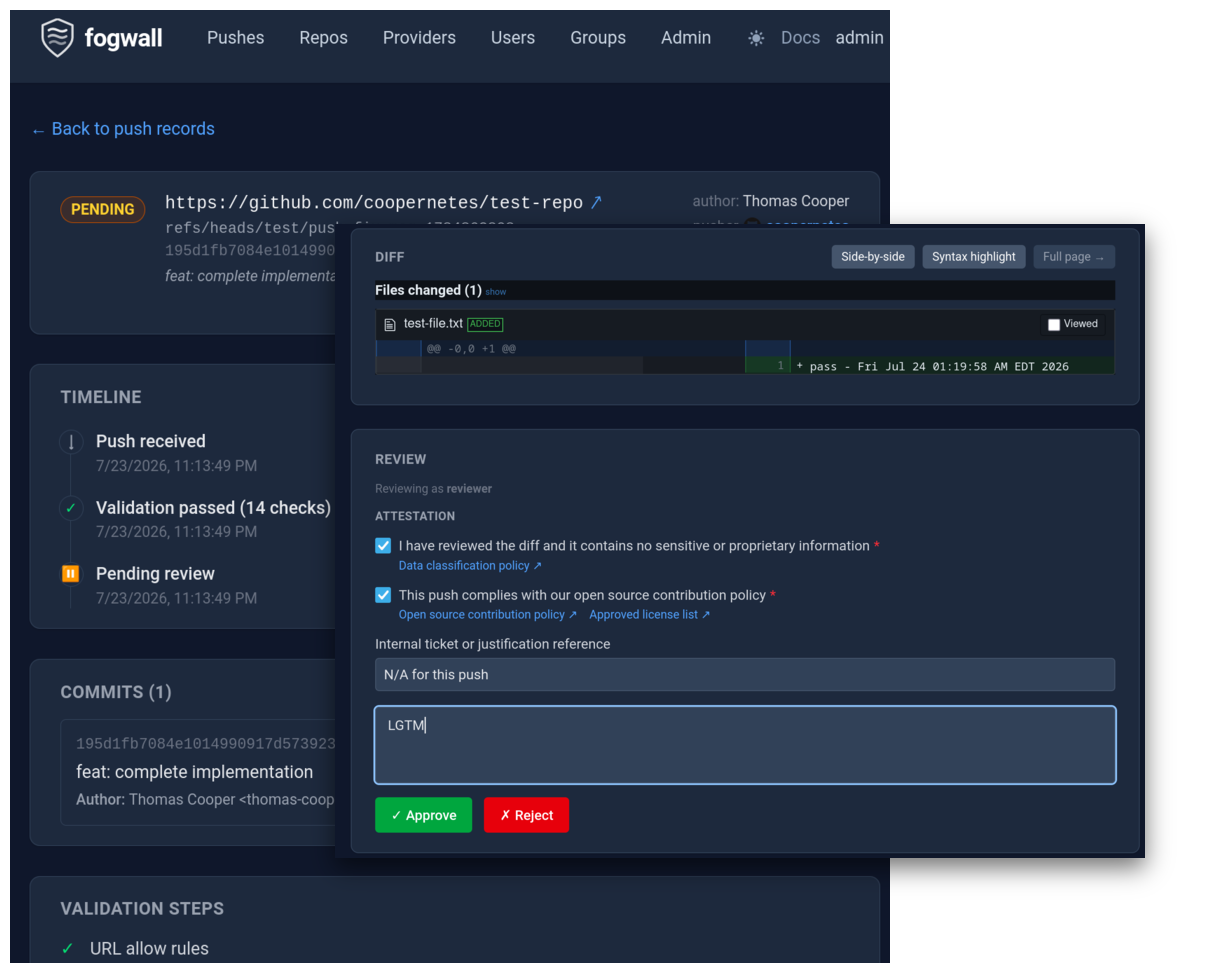
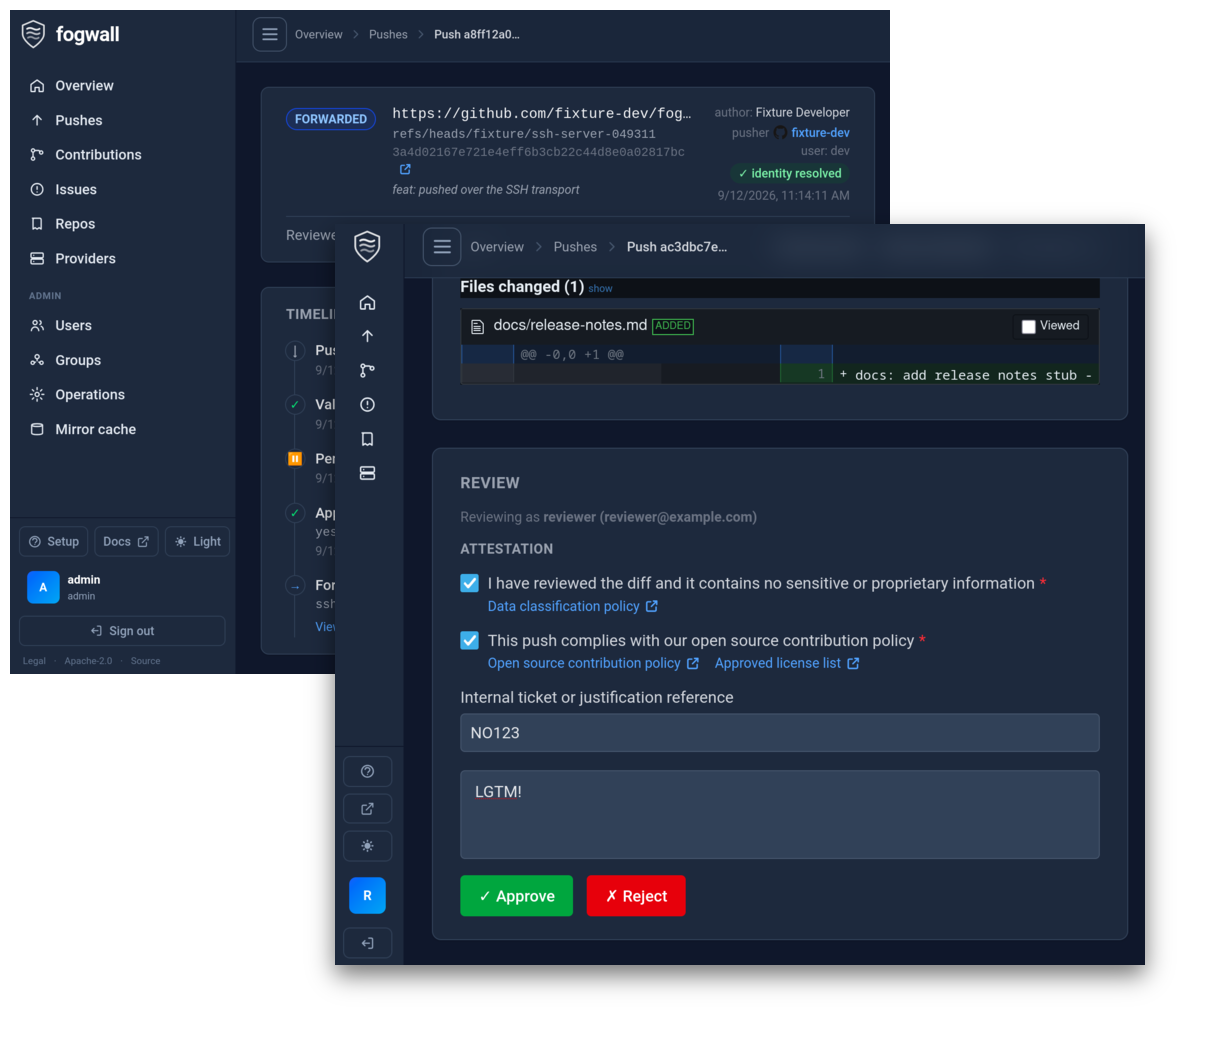
chore: bump version to 1.4.0
Refresh the README dashboard screenshot for the Contributions rename.

diff --git a/README.md b/README.md
@@ -64,7 +64,7 @@ Both proxy modes enforce the same rules:
 
 ### Dashboard
 
-![Push detail — timeline, diff, and attestation](demos/demo-ui-stack.png)
+![Push detail and review — timeline, attestation, and approval](demos/demo-ui-stack.png)
 
 Push management and approval, URL rules and per-user permissions, a lifecycle timeline with an inline diff viewer,
 provider connectivity diagnostics, and live config reload.
